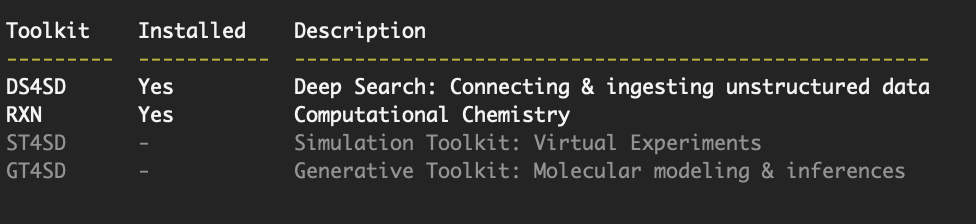
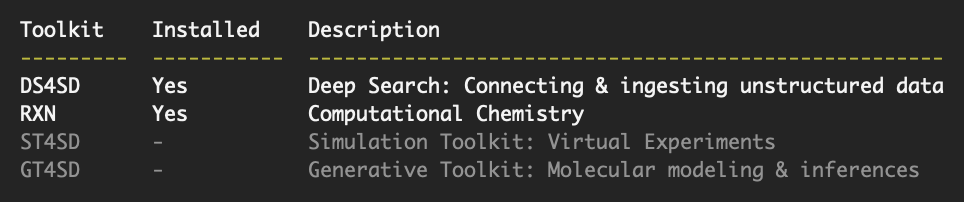
readme

diff --git a/openad/user_toolkits/README.md b/openad/user_toolkits/README.md
@@ -346,6 +346,7 @@ For either scenario to work smoothly, two more files are required:
 
 ### description.txt
 
+<!-- @Phil I think we should rename this to llm_description.txt -->
 The `description.txt` file is used to train the LLM with the toolkit functionality. This way our AI assistant can help OpenAD users figuring out how to use your toolkit. The text file should contain a detailed, unambiguous description of how your toolkit works and what it is meant to achieve. You can look at the other toolkits for inspiration.
 
 At the bottom of your file, on a separate line, you should include the following line, verbatim:
@@ -362,7 +363,8 @@ Then you should run the script below, which gathers all your toolkit commands an
 
 This file contains a very brief description of the toolkit, using only 4-5 words. This wil be displayed when listing available or installed toolkits.
 
-![toolkit-list](readme/toolkit-list.png)
+<!-- ![toolkit-list](readme/toolkit-list.png) -->
+<img src="readme/toolkit-list.png" style="width:482px" >
 
 <br>
 
